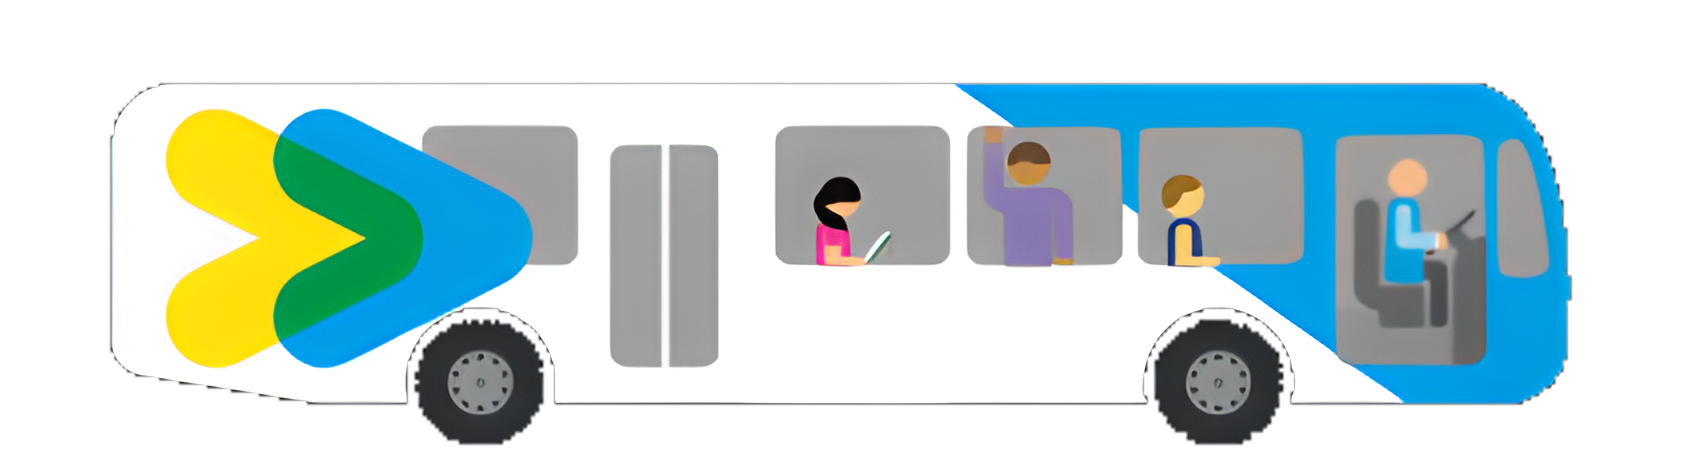
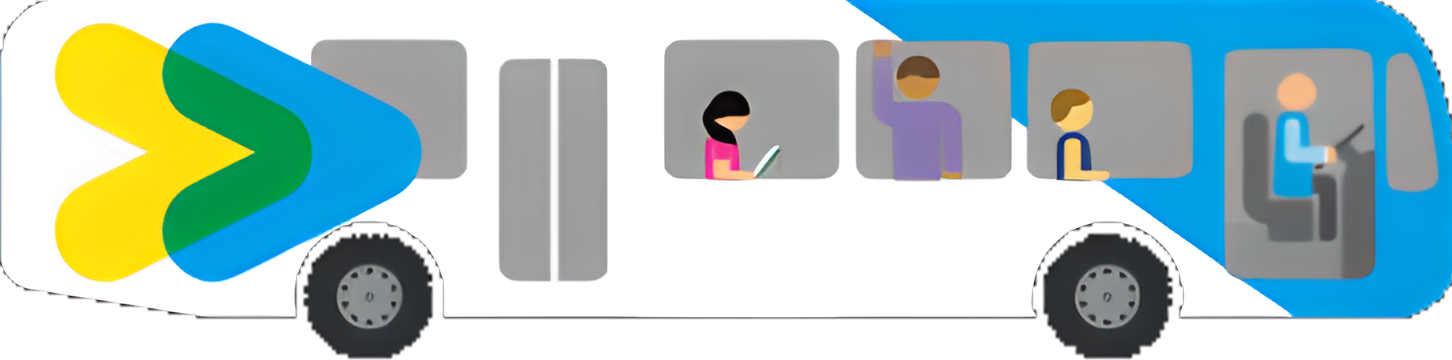
adjusting the images

diff --git a/src/app/services/viz/viz.service.ts b/src/app/services/viz/viz.service.ts
@@ -827,8 +827,6 @@ mapBackground (g:any, data: any, path: any, colorScale: any, provinceAnswers: Ma
 
     g.append('div')
       .attr('class', 'images')
-      .style('display', 'flex')
-      .style('flex-direction', 'row')
       .selectAll(".image-stack")
       .data(data)
       .enter()
@@ -840,7 +838,7 @@ mapBackground (g:any, data: any, path: any, colorScale: any, provinceAnswers: Ma
       .style("position", "relative")
       .append("img")
       .attr('src', function(d){ return d.label})
-      .style('max-width', '300px')
+      .style('height', '200px')
       .attr('class', 'bottom-image')
       .style("position", "relative")
       .style('filter', 'grayscale(100%)')
@@ -856,7 +854,7 @@ mapBackground (g:any, data: any, path: any, colorScale: any, provinceAnswers: Ma
       .style("transition", "clip-path 2s, -webkit-clip-path 2s")
       .style('clip-path', function(d) {return 'inset(0 100% 0 0)';})
       .style('-webkit-clip-path', function(d) {return 'inset(0 100% 0 0)';})
-      .style('max-width', '300px')
+      .style('height', '200px')
       .style('position', 'absolute')
       .attr('top', '0')
       .style('left', '0')

diff --git a/src/app/client-wall/client-wall.component.css b/src/app/client-wall/client-wall.component.css
@@ -494,6 +494,18 @@ body {width: 100%; height: 100vh;}
 
 */
 
+:host /deep/ .images {
+  position: relative;
+  top: 50%;
+  left: 50%;
+  transform: translate(-50%, 0%);
+  display: flex;
+  width: 80%;
+  flex-direction: row;
+  flex-wrap: wrap;
+  justify-content: center;
+}
+
 .images-graph {
   flex-direction: column;
 }
